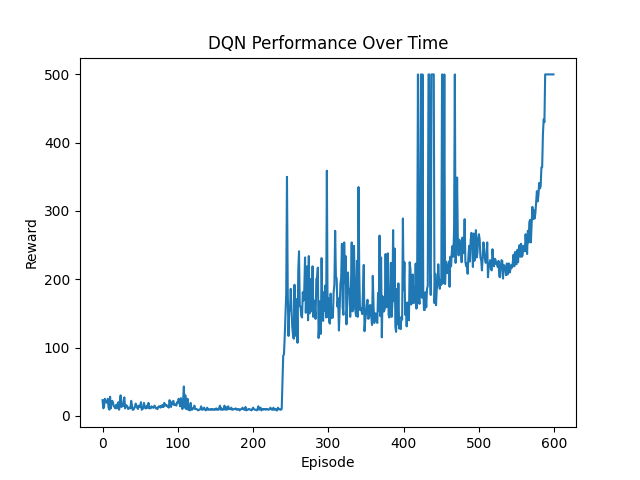
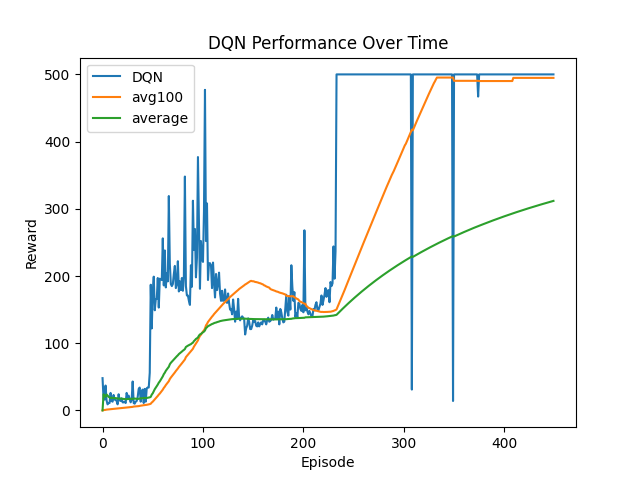
DQN plots seeding

diff --git a/src/agents/dqn.py b/src/agents/dqn.py
@@ -26,14 +26,14 @@ else:
     print(f"Please set the {env_var_name} environment variable to your 'CartPole-RL' directory path.")
     sys.exit(1)
 
-# Import the plotting function
-from src.utils.plot import plot_episode_durations
+# Import the plotting functions
+from src.utils.plot import plot_single_episode, plot_multiple_episodes
 
 # Declare a namedtuple to store transitions 
 Transition = namedtuple('Transition', ('state', 'action', 'reward', 'next_state'))
 
 class ReplayBuffer(object):
-    """A buffer that keeps track of the most recent transitions.
+    """ A buffer that keeps track of the most recent transitions.
     
     Attributes:
         memory (collections.queue): The internal memory where the transitions are stored.
@@ -54,7 +54,7 @@ class ReplayBuffer(object):
         self.memory = deque([], maxlen=capacity)
 
     def push(self, *args) -> None:
-        """Adds a transition in the memory.
+        """ Adds a transition in the memory.
 
         Args:
             *args: Components of the transition to be stored (state,
@@ -64,7 +64,7 @@ class ReplayBuffer(object):
         self.memory.append(Transition(*args))
 
     def sample(self, batch_size: int) -> list:
-        """Randomly sample a batch of transitions from the buffer.
+        """ Randomly sample a batch of transitions from the buffer.
         
         Args:
             batch_size (int): The number of transitions to sample.
@@ -76,7 +76,7 @@ class ReplayBuffer(object):
         return random.sample(self.memory, batch_size)
 
     def __len__(self) -> int:
-        """Gets the current size of the internal memory.
+        """ Gets the current size of the internal memory.
         
         Returns:
             (int): The number of transitions stored in the buffer.
@@ -85,15 +85,14 @@ class ReplayBuffer(object):
         return len(self.memory)
     
 class DQN(nn.Module):
-    """Implements a Deep Q-Network model.
+    """ Implements a Deep Q-Network model.
     
     Methods:
         forward(state):  Defines the forward pass of the DQN model.
     """
 
     def __init__(self, n_observations: int, n_actions: int):
-        """
-        Initializes the DQN model with three linear layers.
+        """ Initializes the DQN model with two linear layers.
 
         Args:
             n_observations (int): The number of dimensions of the observation space.
@@ -101,13 +100,11 @@ class DQN(nn.Module):
         """
 
         super(DQN, self).__init__()
-        self.layer1 = nn.Linear(n_observations, 128)
-        self.layer2 = nn.Linear(128, 128)
-        self.layer3 = nn.Linear(128, n_actions)
-
+        self.layer1 = nn.Linear(n_observations, 256)
+        self.layer2 = nn.Linear(256, n_actions)
+       
     def forward(self, state: torch.Tensor) -> torch.Tensor:
-        """
-        Defines the forward pass of the DQN model.
+        """ Defines the forward pass of the DQN model.
 
         Args:
             state (torch.Tensor): The input state tensor for which action values are to be predicted.
@@ -117,8 +114,7 @@ class DQN(nn.Module):
         """
 
         state = F.relu(self.layer1(state))
-        state = F.relu(self.layer2(state))
-        return self.layer3(state)
+        return self.layer2(state)
 
 class DQNAgent:
     """ Implements a an agent that learns using a DQN.
@@ -158,12 +154,10 @@ class DQNAgent:
                  epsilon_end: float, 
                  epsilon_decay: int,
                  update_rate: float, 
-                 learning_rate: float):
+                 learning_rate: float,
+                 seed: int):
         
         """
-        Initializes the DQNAgent with the given parameters and 
-        initializes the policy and target networks.
-
         Args:
             n_actions (int): Number of possible actions in the environment.
             n_obs (int): Number of observations from the environment.
@@ -175,6 +169,7 @@ class DQNAgent:
             update_rate (float): Rate at which the target network's weights are updated towards 
         the policy network's weights.
             learning_rate (float): Learning rate for the optimizer.
+            seed (int): The seed used for resetting the environment.  
         """
         
         self.n_actions = n_actions
@@ -196,10 +191,12 @@ class DQNAgent:
 
         self.criterion = nn.SmoothL1Loss()
         self.optimizer = optim.AdamW(self.policy_net.parameters(), 
-                                     lr = self.learning_rate, amsgrad=True)
+                                     lr = self.learning_rate, amsgrad = True)
         self.buffer = ReplayBuffer(10000)
 
         self.steps_done = 0
+
+        self.seed = seed
 
     def decay_epsilon(self) -> None:
         """
@@ -212,8 +209,7 @@ class DQNAgent:
         self.steps_done += 1
 
     def select_action(self, state: torch.Tensor) -> torch.Tensor:
-        """
-        Selects an action using epsilon-greedy policy based on the current state.
+        """ Selects an action using epsilon-greedy policy based on the current state.
 
         Args:
         - state (torch.Tensor): The current state of the environment.
@@ -230,7 +226,7 @@ class DQNAgent:
                 return self.policy_net(state).max(1).indices.view(1, 1)
             
         else:
-            return torch.tensor([[random.randint(0, self.n_actions - 1)]], dtype=torch.long)
+            return torch.tensor([[random.randint(0, self.n_actions - 1)]], dtype = torch.long)
 
     def update(self) -> None:
         """
@@ -249,7 +245,7 @@ class DQNAgent:
         batch = Transition(*zip(*transitions))
 
         # Compute a mask of non-final states and concatenate the batch elements
-        non_final_mask = torch.tensor(tuple(map(lambda s: s is not None, batch.next_state)), dtype=torch.bool)
+        non_final_mask = torch.tensor(tuple(map(lambda s: s is not None, batch.next_state)), dtype = torch.bool)
         non_final_next_states = torch.cat([s for s in batch.next_state if s is not None])
         state_batch = torch.cat(batch.state)
         action_batch = torch.cat(batch.action)
@@ -276,8 +272,7 @@ class DQNAgent:
         self.optimizer.step()
 
     def train(self, env: gym.wrappers, num_episodes: int) -> list:
-        """
-        Trains the agent on the given environment for a specified number of episodes.
+        """ Trains the agent on the given environment for a specified number of episodes.
 
         Args:
             env (gym.wrappers): The environment to train the agent on.
@@ -292,10 +287,10 @@ class DQNAgent:
         for i_episode in tqdm(range(num_episodes)):
             
             # Reset the environment (start new episode) and get the starting state
-            state, _ = env.reset()
+            state, _ = env.reset(seed = self.seed)
 
             # Convert the state into a tensor to facilitate training
-            state = torch.tensor(state, dtype=torch.float32).unsqueeze(0)
+            state = torch.tensor(state, dtype = torch.float32).unsqueeze(0)
                 
             for t in count():
                 
@@ -314,7 +309,7 @@ class DQNAgent:
                 if terminated:
                     next_state = None
                 else:
-                    next_state = torch.tensor(observation, dtype=torch.float32).unsqueeze(0)
+                    next_state = torch.tensor(observation, dtype = torch.float32).unsqueeze(0)
 
                 # Store the transition into the buffer
                 agent.buffer.push(state, action, reward, next_state)
@@ -346,42 +341,57 @@ if __name__ == "__main__":
     env = gym.make("CartPole-v1")
 
     # Set the hyper-parameters
-    BATCH_SIZE = 128
+    BATCH_SIZE = 64
     GAMMA = 0.99
     EPS_START = 0.9
     EPS_END = 0.05
     EPS_DECAY = 1000
     TAU = 0.005
-    LR = 1e-4
+    LR = 1e-3
 
-    # Reset the environment to get the number of 
-    # dimensions of the observation space and the number 
-    # of available actions
-    state, info = env.reset()
-    n_observations = len(state)
+    # Get the number of dimensions of the observation space 
+    # and the number of available actions
+    n_observations = env.observation_space.shape[0]
     n_actions = env.action_space.n
 
     # Set the number of episodes
-    num_episodes = 600
+    num_episodes = 450
 
-    # Declare the DQN agent
-    agent = DQNAgent(
-        n_actions=n_actions,
-        n_obs=n_observations,
-        batch_size=BATCH_SIZE,
-        discount_factor=GAMMA,
-        epsilon_start=EPS_START,
-        epsilon_decay=EPS_DECAY,
-        epsilon_end=EPS_END,
-        update_rate=TAU,
-        learning_rate=LR
-    )
+    # Declare a list to store the performance of the algorithm over seeds
+    episode_durations_over_seeds = []
 
-    # Train the DQN agent
-    episode_durations = agent.train(env=env, num_episodes=num_episodes)
+    for seed in [1, 2, 3, 5, 8]: # Fibonacci seeds
 
-    # Plot the episode durations
-    plot_episode_durations(algorithm="DQN", episode_durations=episode_durations, num_episodes=num_episodes)
+        # Set the seed
+        torch.manual_seed(seed)
+        random.seed(seed)
+
+        # Declare the DQN agent
+        agent = DQNAgent(
+            n_actions = n_actions,
+            n_obs = n_observations,
+            batch_size = BATCH_SIZE,
+            discount_factor = GAMMA,
+            epsilon_start = EPS_START,
+            epsilon_decay = EPS_DECAY,
+            epsilon_end = EPS_END,
+            update_rate = TAU,
+            learning_rate = LR,
+            seed = seed
+        )
+
+        # Train the DQN agent
+        episode_durations = agent.train(env = env, num_episodes = num_episodes)
+
+        # Record the performance of the algorithm
+        episode_durations_over_seeds.append(episode_durations)
+
+    # Plot the performance recorded over the last seed
+    seed_episode_durations = episode_durations_over_seeds[0]
+    plot_single_episode(algorithm = "DQN", episode_durations = seed_episode_durations, num_episodes = num_episodes)
+
+    # Plot the performance of the algorithm over the seeds
+    plot_multiple_episodes(algorithm = "DQN", episode_durations_over_seeds = episode_durations_over_seeds)
 
     # Close the environment
     env.close()
